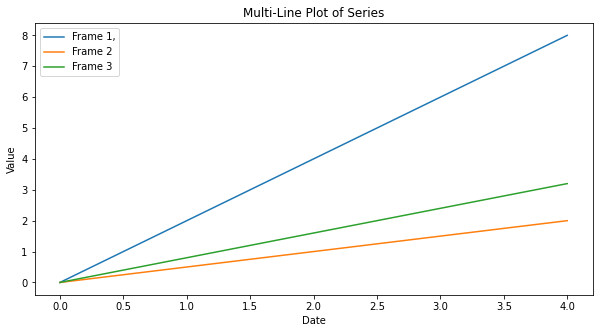
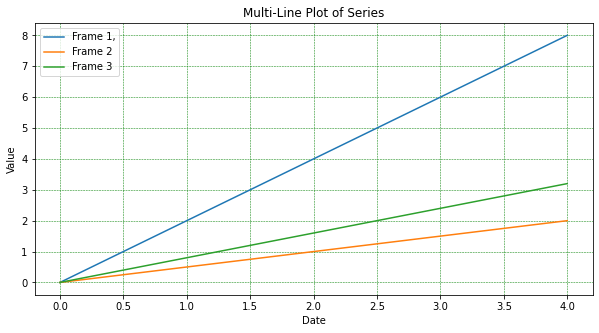
first

diff --git a/_posts/2024-11-15-matplotlib.md b/_posts/2024-11-15-matplotlib.md
@@ -230,11 +230,12 @@ df3 = pd.DataFrame({'Frame 3':np.arange(5)*.8},index=np.arange(5))
 ax = df1.plot(label='df1', figsize=(10,5))
 df2.plot(ax=ax)
 df3.plot(ax=ax)
+ax.grid(axis = 'y')
+plt.grid(color = 'green', linestyle = '--', linewidth = 0.5)
 plt.title("Multi-Line Plot of Series")
 plt.xlabel("Date")
 plt.ylabel("Value")
 plt.show()
-plt.savefig('/storage/emulated/0/Documents/psyc/sample.png')
 ```
 
 ![Alt X](../assets/img/pandas/sample.png)
